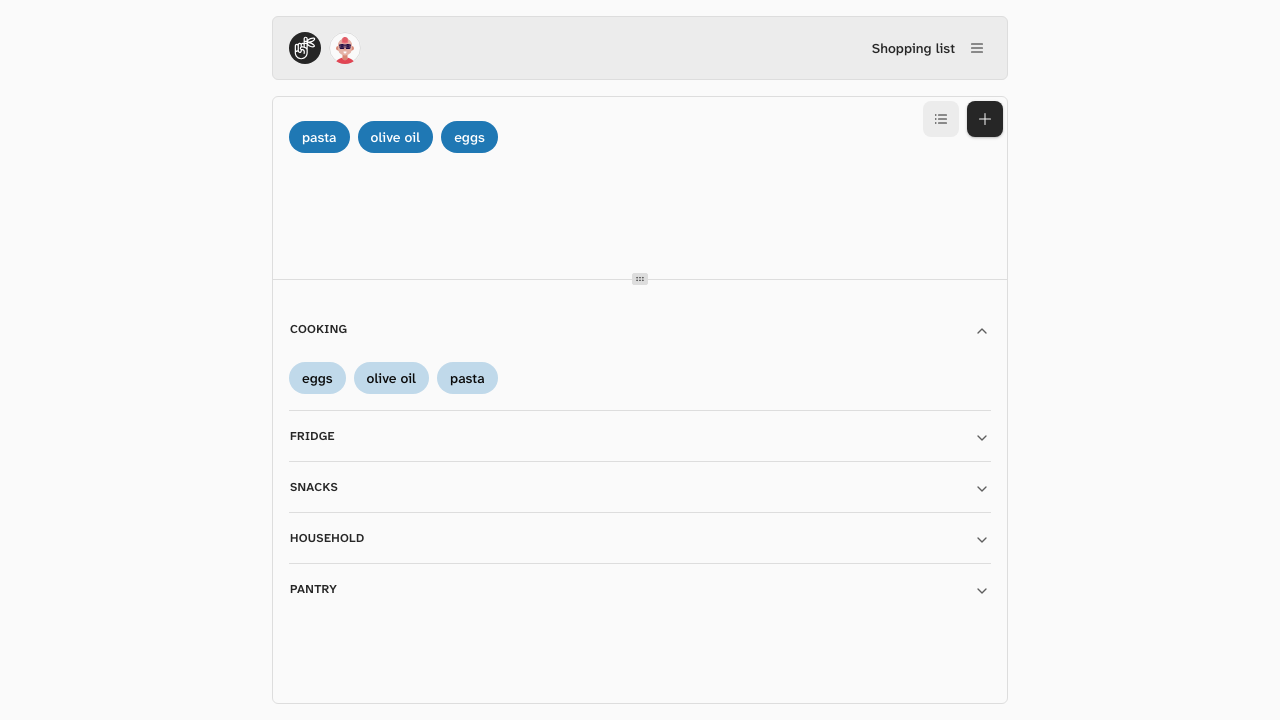
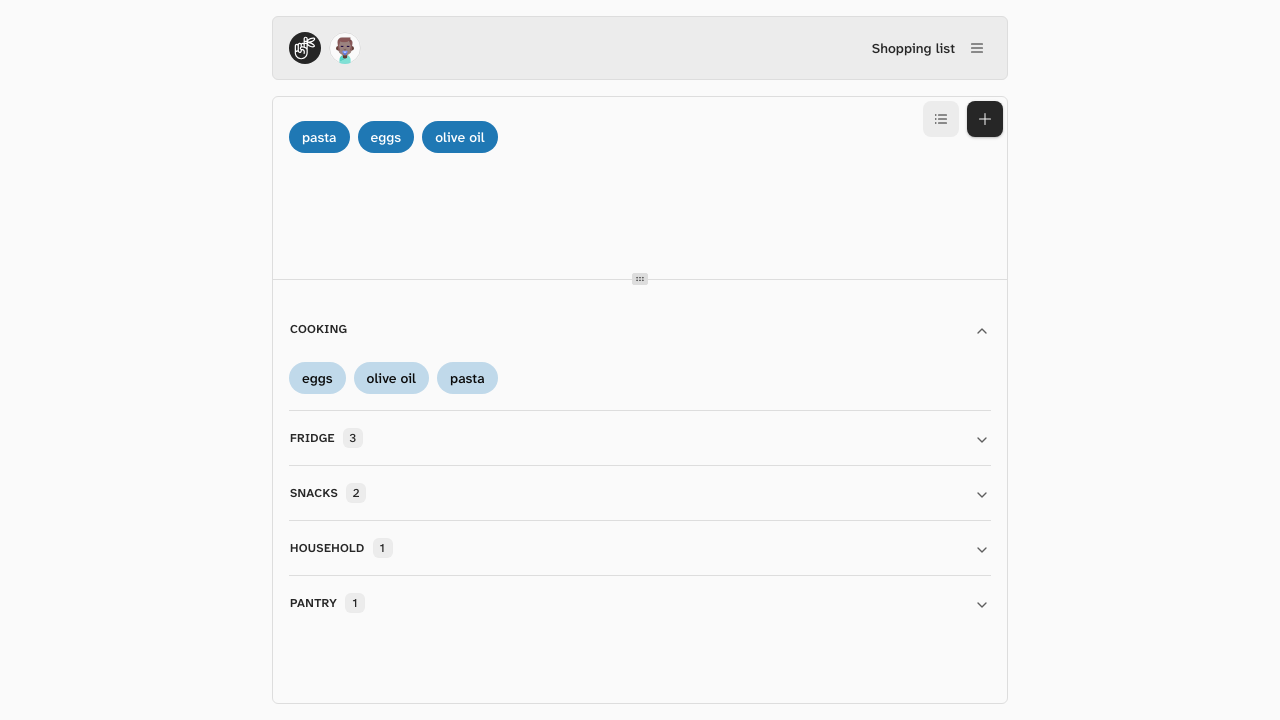
chore: release v4.1.0

diff --git a/src/views/about.tsx b/src/views/about.tsx
@@ -70,7 +70,9 @@ const AboutView = () => (
         <li>
           <strong>Smart recommendations</strong>: colored pips mark items that
           are overdue or due soon based on how often you buy them, and learn
-          from your history the more you shop.
+          from your history the more you shop. A count next to each category
+          name in the catalog tells you how many of its items are recommended
+          right now.
         </li>
         <li>
           <strong>History</strong>: review your recent shopping in the History

diff --git a/CHANGELOG.md b/CHANGELOG.md
@@ -2,6 +2,23 @@
 
 All notable changes to Remindit will be documented in this file.
 
+## v4.1.0 — 2026-08-31
+
+_The catalog now shows how many recommendations each category holds — and the Help page got more accurate._
+
+### ✨ New Features
+
+- **Recommended-count badge**: each category header in the catalog shows a small count of its recommended items (overdue or due soon). It's reactive: add a recommended item to your list and the count drops — putting the item back won't inflate it again, since only items still waiting to be acted on are counted
+
+### 🔧 Improvements
+
+- **Autoplaying help videos**: the demo videos on the Help page now autoplay muted while in view, pause when you scroll away, and loop — falling back to native controls when your device prefers reduced motion
+- **About stays in sync**: the About page now mentions the recommended-count badge
+
+### 🐛 Fixes
+
+- **Accurate Help copy**: removed a stale reference to a catalog-legend info icon that no longer exists — the pip legend lives right on the Help page — and corrected the quick-add description to match its real behavior
+
 ## v4.0.0 — 2026-08-31
 
 _Share your list as an image, watch demo videos right inside the app, and take full control of your local data._
